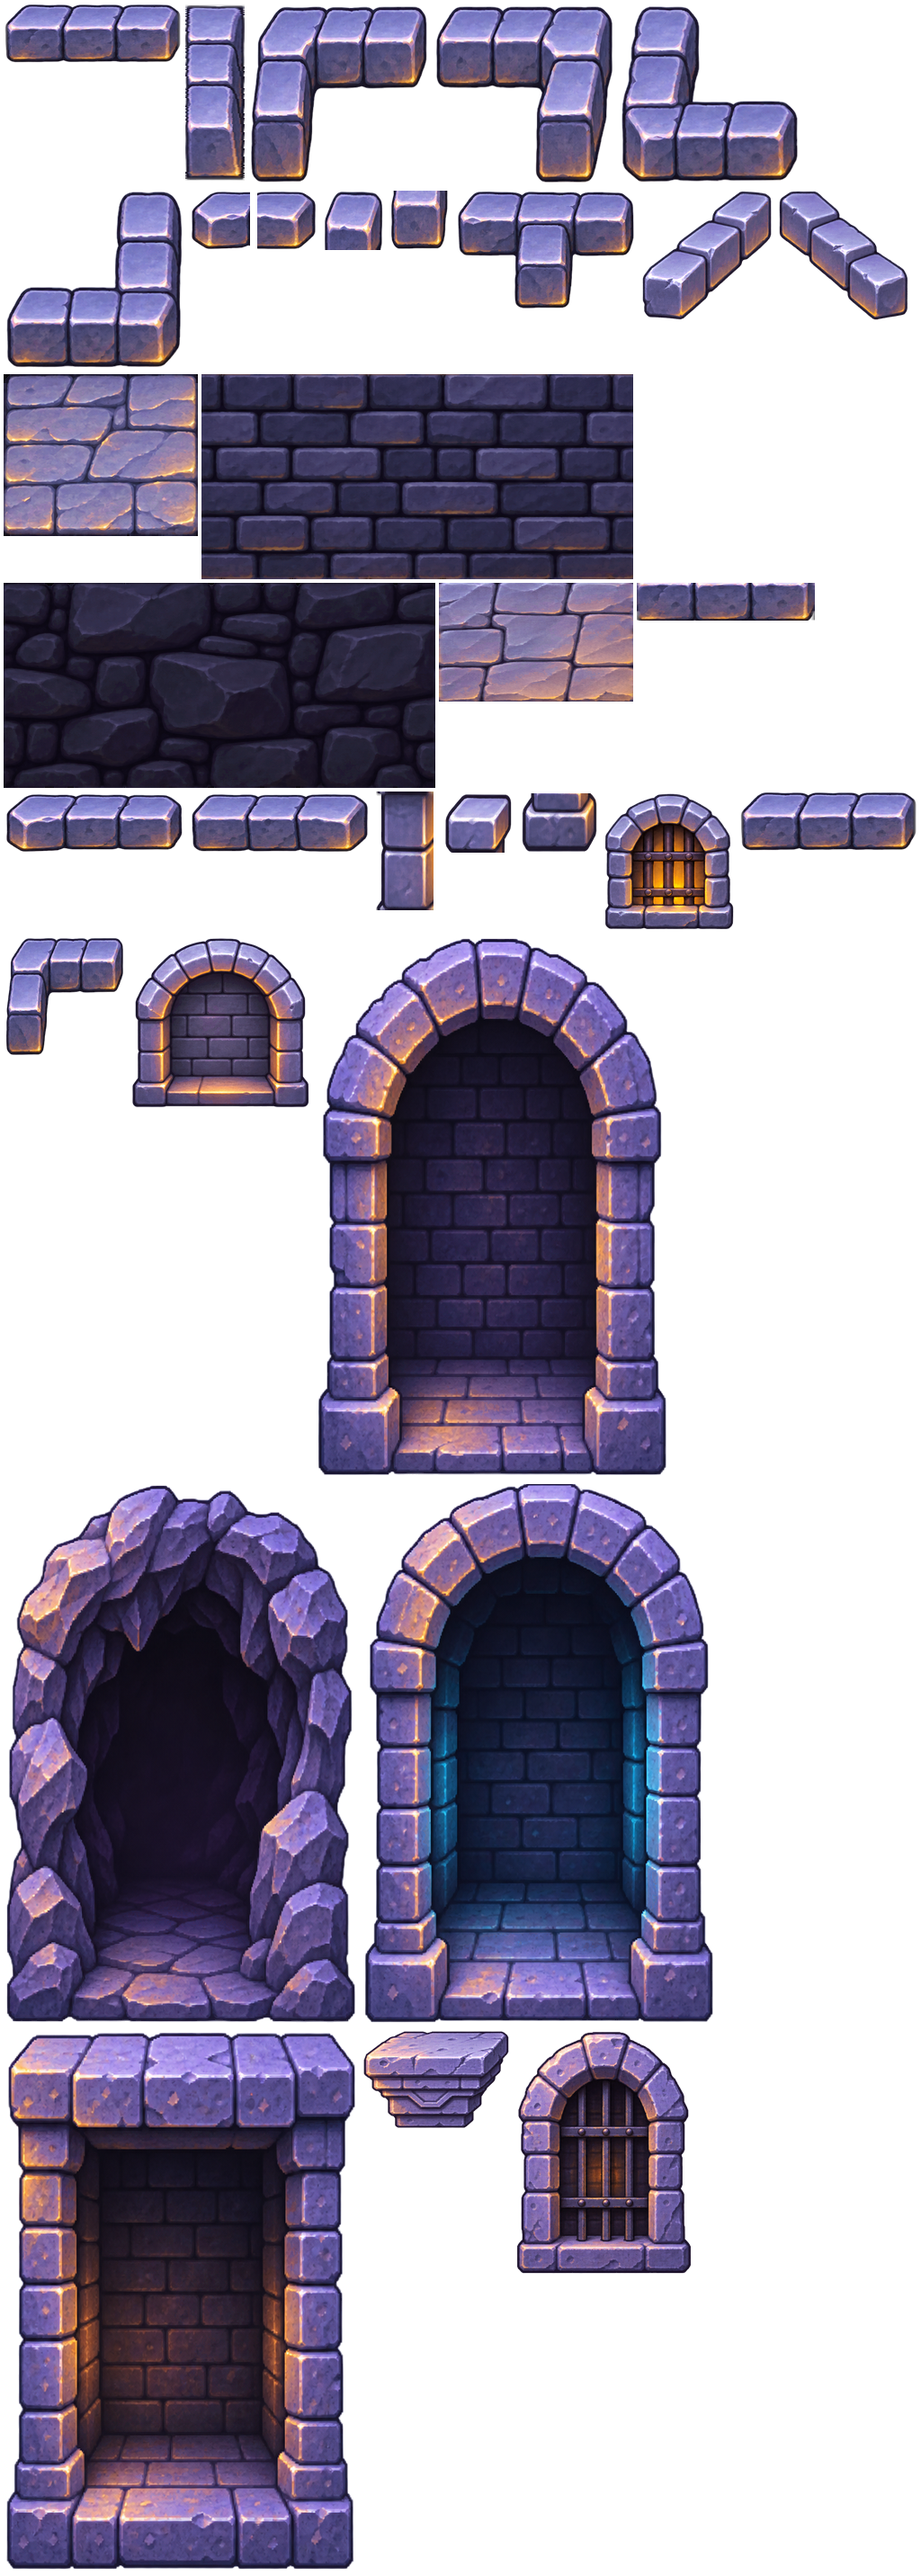
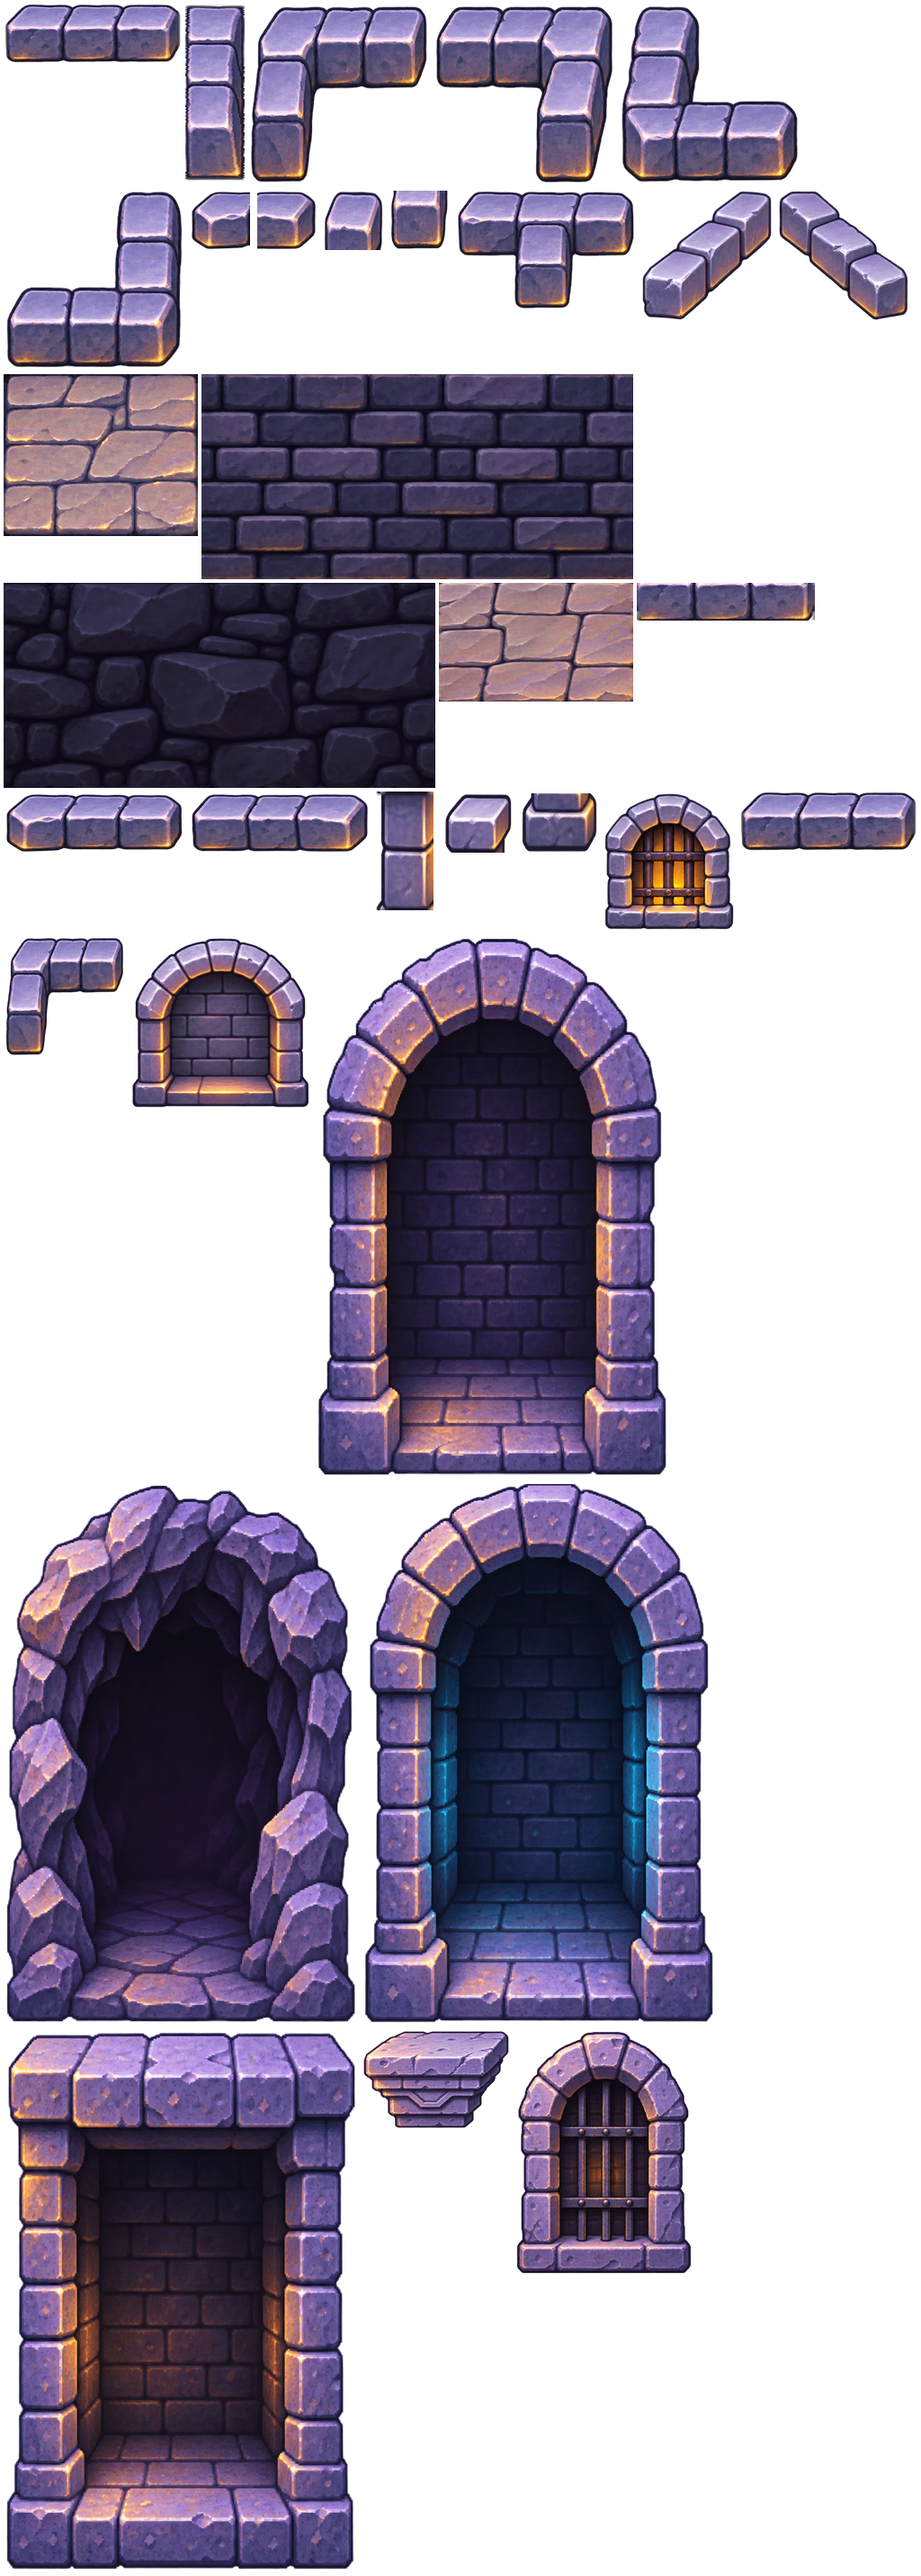
Dungeon Board art v5
Warmer torch-lit stone and floors, readable workstation slots (an angled monitor
desk, a book shelf), cream parchment and a brighter gold panel rim, hotter
flames and a broader forge bed. Frame names, anchors and maps unchanged; robots
unchanged. Provenance in ASSETS.md; the build script updated.

Changed region(s): [[0.0, 0.1243, 0.2188, 0.2175], [0.4688, 0.2175, 0.6875, 0.2797]]

diff --git a/rendering/scripts/dungeon-art.py b/rendering/scripts/dungeon-art.py
@@ -8,7 +8,7 @@ from pathlib import Path
 import json, math, re, argparse, os, shutil, statistics
 
 LIVE = Path('rendering/src/assets/dungeon')
-OUT = Path('rendering/artifacts/dungeon/v4/staging')
+OUT = Path('rendering/artifacts/dungeon/v5/staging')
 ART = Path('rendering/artifacts/dungeon')
 RESAMPLE = Image.Resampling.LANCZOS
 SHEETS = {}
@@ -428,6 +428,7 @@ def colour_match():
 
 def build():
     OUT.mkdir(parents=True,exist_ok=True)
+    sync_provenance_v5(OUT)
     if not (OUT/'prompts.json').exists():shutil.copy2(LIVE/'prompts.json',OUT/'prompts.json')
     build_v2()
     rooms=source('v3-rooms');dressing=source('v3-dressing')
@@ -437,6 +438,7 @@ def build():
     add('props','chain-pair',fit(dressing[2],(180,300),True),'top')
     colour_match()
     build_robots_v4()
+    fix_art_v5()
 
 def pack():
     OUT.mkdir(parents=True,exist_ok=True)
@@ -810,6 +812,7 @@ def validate_robots_v4():
 def robots_only(publish_live=False):
     global OUT
     OUT=ART/'v4/staging';OUT.mkdir(parents=True,exist_ok=True)
+    sync_provenance_v5(OUT)
     for p in LIVE.iterdir():
         if p.suffix in ['.png','.json'] and not (p.name=='prompts.json' and (OUT/p.name).exists()):shutil.copy2(p,OUT/p.name)
     load_live_art();build_robots_v4();pack();validate();validate_robots_v4();contact();robot_v4_comparison()
@@ -821,9 +824,174 @@ def robots_only(publish_live=False):
             tmp=dest.with_suffix('.py.v4-ready');shutil.copy2(src,tmp);os.replace(tmp,dest)
 
 
+def source_v5(key,cols,rows):
+    im=Image.open(ART/'v5'/(key+'-raw.png')).convert('RGBA');out=[]
+    for y in range(rows):
+        for x in range(cols):out.append(trim(im.crop((round(x*im.width/cols),round(y*im.height/rows),round((x+1)*im.width/cols),round((y+1)*im.height/rows)))))
+    return out
+
+def framed_v5(im,size):
+    im=prune_micro(fit(im,(size[0]-4,size[1]-4),True));out=Image.new('RGBA',size);out.alpha_composite(im,(2,2));return clean(out)
+
+def pale_parchment_v5(im):
+    lab=ImageCms.applyTransform(im.convert('RGB'),_TO_LAB);rgb=list(im.getdata());ld=list(lab.getdata())
+    sample=[];mask=bytearray(len(rgb))
+    for k,(p,q) in enumerate(zip(rgb,ld)):
+        x=k%im.width;y=k//im.width;r,g,b,a=p;l,aa,bb=q
+        if a>220 and 24<x<im.width-24 and 17<y<im.height-17 and l>174 and 132<bb<172 and aa<145 and r>g>b and r-g<45:
+            sample.append(q);mask[k]=1
+    mean=[statistics.median(p[k] for p in sample) for k in range(3)];target=[91*255/100,132,155]
+    lab.putdata([tuple(max(0,min(255,round(v+target[c]-mean[c]))) for c,v in enumerate(q)) if mask[k] else q for k,q in enumerate(ld)])
+    converted=ImageCms.applyTransform(lab,_TO_RGB);data=[(*q,p[3]) if mask[k] else p for k,(p,q) in enumerate(zip(rgb,converted.getdata()))];out=im.copy();out.putdata(data);return clean(out)
+
+def warm_material_v5(im,sheet,name):
+    if sheet in ['robots','status']:return im
+    floor=name in ['floor-flag','terrace-floor','alcove-ledge']
+    if sheet=='stone':
+        if name=='wall-brick-dark':dl,db,da=.65,1.8,0
+        elif name=='wall-brick':dl,db,da=4,6,1
+        elif floor:dl,db,da=5.5,27,1.8
+        else:dl,db,da=3,8.5,1
+    elif sheet=='alcoves' and not name.startswith('candle-'):dl,db,da=(5.5,24,1.5) if floor else (3,9,1)
+    elif sheet=='gate' and (name in ['gate-arch','gate-surround','gate-medallion','stairs-top','stairs-mid','stairs-bottom']):dl,db,da=2.7,9,1
+    elif sheet=='ui' and name=='medallion':dl,db,da=2.5,7,1
+    elif sheet=='props' and (name in ['anvil','armor'] or any(name.startswith(n+'-') for n in ['forge','brazier','crystal','alchemy-tank'])):dl,db,da=2.5,7,1
+    else:return im
+    rgb=list(im.getdata());lab=ImageCms.applyTransform(im.convert('RGB'),_TO_LAB);ld=list(lab.getdata());mask=bytearray(len(rgb))
+    for k,((r,g,b,a),(l,aa,bb)) in enumerate(zip(rgb,ld)):
+        L=l*100/255
+        if not a or L<18 or L>94:continue
+        cool=stone_pixel(r,g,b)
+        gold=r>g>b and r>125 and g>85 and bb>148 and L>46
+        if not cool and not gold:continue
+        t=max(0,min(1,(L-20)/(35 if floor else 45)));t=t*t*(3-2*t)
+        if name=='wall-brick':
+            t=max(0,min(1,(L-12)/26));t=t*t*(3-2*t)
+        if cool:
+            extra=1
+            if sheet=='alcoves' and name.startswith('alcove-slot-') and k//im.width>im.height*.77:extra=1.5
+            ld[k]=(min(248,round(l+dl*2.55*t*extra)),max(0,min(255,round(aa+da*t))),max(0,min(255,round(bb+db*t*extra))))
+        elif gold:
+            # Strengthen existing reflected amber bevels, keeping them painted
+            # into the material rather than adding another external halo.
+            ld[k]=(min(248,round(l+2.6*2.55*t)),aa,min(255,round(bb+1.5*t)))
+        mask[k]=1
+    lab.putdata(ld);graded=ImageCms.applyTransform(lab,_TO_RGB);out=im.copy();out.putdata([(*q,p[3]) if mask[k] else p for k,(p,q) in enumerate(zip(rgb,graded.getdata()))]);return clean(out)
+
+def old_v3_grade_v5(im,sheet):
+    model=json.loads((LIVE/'prompts.json').read_text())['v3_colour_transfer']['sheets'][sheet];ps=model['parameters'];cs=[p['L'] for p in ps]
+    rgb=list(im.getdata());lab=ImageCms.applyTransform(im.convert('RGB'),_TO_LAB);ld=list(lab.getdata());mask=bytearray(len(rgb))
+    for idx,((r,g,b,a),(l,aa,bb)) in enumerate(zip(rgb,ld)):
+        if not a or l<22 or not stone_pixel(r,g,b):continue
+        j=0
+        while j<2 and l>cs[j+1]:j+=1
+        if l<=cs[0]:lo=hi=0;w=0
+        elif l>=cs[3]:lo=hi=3;w=0
+        else:lo=j;hi=j+1;w=(l-cs[j])/max(1,cs[j+1]-cs[j])
+        out=[]
+        for c,v in [(1,aa),(2,bb)]:
+            p=ps[lo];q=ps[hi];u=(v-p['source_mean'][c])*p['gain'][c]+p['source_mean'][c]+p['shift'][c];v2=(v-q['source_mean'][c])*q['gain'][c]+q['source_mean'][c]+q['shift'][c];strength=min(1,(l-18)/22)*min(1,max(0,(b-min(r,g)-1)/10));out.append(max(0,min(255,round(v+(u*(1-w)+v2*w-v)*strength))))
+        ld[idx]=(l,*out);mask[idx]=1
+    lab.putdata(ld);graded=ImageCms.applyTransform(lab,_TO_RGB);out=im.copy();out.putdata([(*q,p[3]) if mask[k] else p for k,(p,q) in enumerate(zip(rgb,graded.getdata()))]);return clean(out)
+
+def fire_repaints_v5():
+    fire=source_v5('fire',4,2);pa=source('v2-propsA');fp=source('v2-flames');replacements={}
+    maxh=max(p.height for p in fire[:4]);flames=[]
+    for p in fire[:4]:
+        h=round(p.height*72/maxh);w=round(p.width*72/maxh);im=fit(p,(w,h),True);can=Image.new('RGBA',(72,78));can.alpha_composite(im,((72-w)//2,76-h));flames.append(can)
+    for prefix,body,size,bpos,fpos,fsize,count in [
+        ('torch',fit(pa[0],(45,99),True),(60,153),(8,50),(0,0),(60,67),4),
+        ('brazier',fit(pa[1],(105,111),True),(117,180),(6,65),(0,0),(117,88),4),
+        ('candle',fit(fp[6],(30,93)),(40,125),(5,30),(3,0),(34,39),3)]:
+        body_canvas=Image.new('RGBA',size);body_canvas.alpha_composite(body,bpos);alpha=Image.new('RGBA',(size[0]+4,size[1]+4));alpha.alpha_composite(body_canvas,(2,2))
+        # Recover the already calibrated holder from the current sprite. Its
+        # physical alpha removes the old flame above it; the bowl stays warm.
+        base=SPRITES[prefix+'-0'].copy();base.putalpha(alpha.getchannel('A'));base=clean(base)
+        for i in range(count):
+            out=base.copy();out.alpha_composite(fit(flames[i],fsize,True),(fpos[0]+2,fpos[1]+2));replacements[f'{prefix}-{i}']=out
+    body=stone_grade(fit(pa[10],(198,228),True));body=old_v3_grade_v5(body,'props')
+    for i,p in enumerate(fire[4:]):
+        # Broad coal bed behind the forge arch, clipped to the actual opening.
+        layer=Image.new('RGBA',body.size);layer.alpha_composite(fit(p,(85,90),True),(59,116))
+        mask=Image.new('L',body.size);d=ImageDraw.Draw(mask);d.polygon([(59,205),(59,149),(69,129),(85,116),(105,116),(124,130),(144,150),(144,205)],fill=255)
+        layer.putalpha(ImageChops.multiply(layer.getchannel('A'),mask));out=body.copy();out.alpha_composite(layer);frame=Image.new('RGBA',(202,232));frame.alpha_composite(out,(2,2));replacements[f'forge-{i}']=frame
+    return replacements
+
+def fix_art_v5():
+    replacements=fire_repaints_v5();work=source_v5('workshop',2,1);ui=source_v5('ui',1,3)
+    for i,n in enumerate(['alcove-slot-1','alcove-slot-2']):
+        im=region(work[i],(.08,.12,.94,.97));im=framed_v5(im,SPRITES[n].size)
+        if i==0:
+            im.putdata([(round(r*.86),round(g*.86),round(b*.86),a) if g>r*1.4 and b>r*1.4 and b>160 else (r,g,b,a) for r,g,b,a in im.getdata()])
+        replacements[n]=im
+    for n,p in zip(['label','plaque','panel'],ui):
+        im=framed_v5(p,SPRITES[n].size);replacements[n]=pale_parchment_v5(im) if n!='panel' else im
+    metrics={}
+    for sheet,frames in SHEETS.items():
+        updated=[]
+        for n,im,info in frames:
+            original=im;im=replacements.get(n,im);im=prune_micro(warm_material_v5(im,sheet,n)) if not info.get('tile') else warm_material_v5(im,sheet,n)
+            if im.size!=original.size:raise ValueError(n+' changed frame size')
+            updated.append((n,im,info));SPRITES[n]=im
+            if n in ['terrace-floor','floor-flag','rampart-x','wall-brick','label','plaque']:
+                def meanlab(x):
+                    l=ImageCms.applyTransform(x.convert('RGB'),_TO_LAB);pts=[q for p,q in zip(x.getdata(),l.getdata()) if p[3]>220]
+                    return [statistics.mean(q[0] for q in pts)*100/255,statistics.mean(q[1] for q in pts)-128,statistics.mean(q[2] for q in pts)-128]
+                metrics[n]={'before_Lab':meanlab(original),'after_Lab':meanlab(im)}
+        SHEETS[sheet]=updated
+    (ART/'v5/material-metrics.json').write_text(json.dumps(metrics,indent=2)+'\n')
+    provenance=json.loads((OUT/'prompts.json').read_text());provenance['v5_material_pass']={'method':'Luminance-weighted warm CIELab highlight transfer; violet mortar/deep recesses and cyan magic protected; stronger warm grey floor profile; cream parchment target L*=91 a*=4 b*=27','metrics':metrics};(OUT/'prompts.json').write_text(json.dumps(provenance,indent=2)+'\n')
+
+def load_live_sheets_v5():
+    load_live_art()
+    for path in sorted(LIVE.glob('*.json')):
+        if path.stem=='prompts':continue
+        j=json.loads(path.read_text())
+        # Rebuild the v5 transfer from its pre-pass albedo, not an already
+        # warmed live image. Keep current robot/status images untouched.
+        if path.stem not in ['robots','status']:
+            base=ART/'v5/before';bj=json.loads((base/path.name).read_text());atlas=Image.open(base/bj['image']).convert('RGBA')
+            if bj!=j:raise ValueError(path.name+' geometry no longer matches v5 baseline')
+            for n,f in bj['frames'].items():SPRITES[n]=atlas.crop((f['x'],f['y'],f['x']+f['w'],f['y']+f['h']))
+        SHEETS[path.stem]=[(n,SPRITES[n],META[n]) for n in j['frames']]
+
+def art_review_v5():
+    old=ART/'v5/before';pairs=[('stone','terrace-floor'),('stone','wall-brick'),('stone','rampart-x'),('alcoves','alcove-slot-1'),('alcoves','alcove-slot-2'),('ui','plaque'),('ui','panel'),('props','torch-0'),('props','forge-0')]
+    can=Image.new('RGBA',(1900,len(pairs)*275+55),'#231d30');d=ImageDraw.Draw(can);d.text((15,10),'ASSET FIXES / V4 baseline left / V5 art right / identical frame size',fill='white')
+    for i,(sheet,n) in enumerate(pairs):
+        y=i*275+65;j=json.loads((old/(sheet+'.json')).read_text());f=j['frames'][n];oldim=Image.open(old/(sheet+'.png')).crop((f['x'],f['y'],f['x']+f['w'],f['y']+f['h']))
+        for x,im in [(20,oldim),(970,SPRITES[n])]:
+            im=fit(im,(900,235));can.alpha_composite(im,(x,y))
+        d.text((20,y-20),n,fill='white')
+    can.convert('RGB').save(ART/'v5/art-changes.png',optimize=True)
+
+def art_only_v5(publish_live=False):
+    global OUT
+    OUT=ART/'v5/staging';OUT.mkdir(parents=True,exist_ok=True)
+    sync_provenance_v5(OUT)
+    for p in LIVE.iterdir():
+        if p.suffix in ['.png','.json'] and not (p.name=='prompts.json' and (OUT/p.name).exists()):shutil.copy2(p,OUT/p.name)
+    load_live_sheets_v5();fix_art_v5();pack()
+    # Byte-preserve metadata: this pass repaints only existing rectangles.
+    for p in LIVE.glob('*.json'):
+        if p.stem=='prompts':continue
+        a=json.loads(p.read_text());b=json.loads((OUT/p.name).read_text())
+        if a!=b:raise ValueError(p.name+' changed metadata')
+        shutil.copy2(p,OUT/p.name)
+    validate();contact();art_review_v5()
+    if (OUT/'robots.png').read_bytes()!=(LIVE/'robots.png').read_bytes():raise ValueError('Robot pixels changed')
+    if publish_live:publish()
+
+def sync_provenance_v5(out):
+    """An older cached stage must not erase a later generation's provenance."""
+    src=LIVE/'prompts.json';dest=out/'prompts.json'
+    if not dest.exists() or json.loads(src.read_text()).get('version',0)>json.loads(dest.read_text()).get('version',0):shutil.copy2(src,dest)
+
+
 if __name__=='__main__':
-    parser=argparse.ArgumentParser();parser.add_argument('--validate-only',action='store_true');parser.add_argument('--publish',action='store_true');parser.add_argument('--publish-staged',action='store_true');parser.add_argument('--robots-only',action='store_true');args=parser.parse_args()
-    if args.robots_only:robots_only(args.publish)
+    parser=argparse.ArgumentParser();parser.add_argument('--validate-only',action='store_true');parser.add_argument('--publish',action='store_true');parser.add_argument('--publish-staged',action='store_true');parser.add_argument('--robots-only',action='store_true');parser.add_argument('--art-only',action='store_true');args=parser.parse_args()
+    if args.art_only:art_only_v5(args.publish)
+    elif args.robots_only:robots_only(args.publish)
     elif args.validate_only:
         OUT=LIVE;validate()
     elif args.publish_staged:validate();publish()

diff --git a/rendering/ASSETS.md b/rendering/ASSETS.md
@@ -929,7 +929,7 @@ These are useful original coast parts, not a pixel-identical reconstruction of t
 
 ## Dungeon Board
 
-The architecture is v3 and robots are v4. Artwork was generated with the built-in
+The geometry kit is v3, robots are v4, and material/furnishing refinements are v5. Artwork was generated with the built-in
 `image_gen` tool on 2026-11-06.
 The private `design/references/dungeon-concept.png` was inspected at 3×,
 particularly its LOCAL floor, left terrace, workspace recess and central gate.
@@ -1102,6 +1102,47 @@ the registered work cycle. The contact sheet includes all 235 frames with the
 new robots. Validation checks the original name set, scale, shared animation
 dimensions/anchors, feet positions, visible body resolution, bob amplitude,
 alpha cleanliness and gutters before replacement.
+
+
+V5 addresses the art-owned findings from the compare-6 critique. It preserves
+all 235 names and every frame map byte-for-byte, including feet anchors and
+nine-slice/tile/animation metadata. Robots and status PNGs remain byte-identical.
+Three further built-in generations repaint the sparse monitor/shelf interiors,
+pale parchment and gold/navy panels, and four compact yellow-white flames plus
+four broad forge coal/fire beds. Exact prompts and original filenames are in
+`v5_generations` in `prompts.json`; raw outputs are ignored in `artifacts/dungeon/v5/`.
+
+The stone stays violet in shadow, but its lit bevels receive restrained warmer,
+lighter painted material values. Terrace and paving use a stronger warm-grey
+profile. The terrace's opaque-pixel mean Lab changes from approximately
+(51.1, 12.1, −18.0) to (54.9, 13.5, +0.2); floor-flag from (52.6, 14.2, −13.0)
+to (55.7, 15.2, +1.9). Violet mortar, deep recesses and cyan magic are protected.
+These are albedo changes, not a claim that the app's spatial lighting is fixed.
+The app still needs warm falloff and removal of excessive runtime darkening.
+The label/plaque fields target pale cream around L*=91, a*=4, b*=27; the navy
+panel regains a bright clipped gold rim. The new desk and shallow shelf remain
+off to one side, with open room for the larger robots.
+
+Fire animations have compact ivory/yellow hearts rather than long orange
+ribbons. The forge has a multi-tongue coal/fire bed clipped into its firebox.
+All holder/firebox geometry and animation anchors are registered; the existing
+holder-stability checks still pass. No external glow was added to compete with
+agents, and the lit gate texture was not made brighter.
+
+The builder's `--art-only` mode stages this pass and checks it before
+`--art-only --publish` atomically replaces changed sheets. It starts from the
+preserved pre-v5 albedo in `artifacts/dungeon/v5/before/` so rerunning it does not
+stack warming. Current robot/status art is retained. Newer provenance is kept
+when older cached stages are used. The full raw-source rebuild includes the
+same v5 pass. The folder remains below 12 MB.
+
+`artifacts/dungeon/gaps.md` records ten ranked gaps, native crop coordinates,
+art/code ownership and concrete fixes. `gaps.png` pairs the top five baseline
+crops from the private concept and compare-6 capture. These remain ignored.
+`artifacts/dungeon/v5/art-changes.png` shows before/after sprite evidence, and
+`v5/material-metrics.json` records the numeric colour changes. The comparison
+capture is not presented as an after-fix app screenshot; code-owned layout,
+lighting, tint/compositing and prop placement still require integration.
 
 Remaining differences: the concept's masonry has more bespoke pixel-like chips,
 uneven joints and integrated painted shadows. V3 is smoother, its joins and
